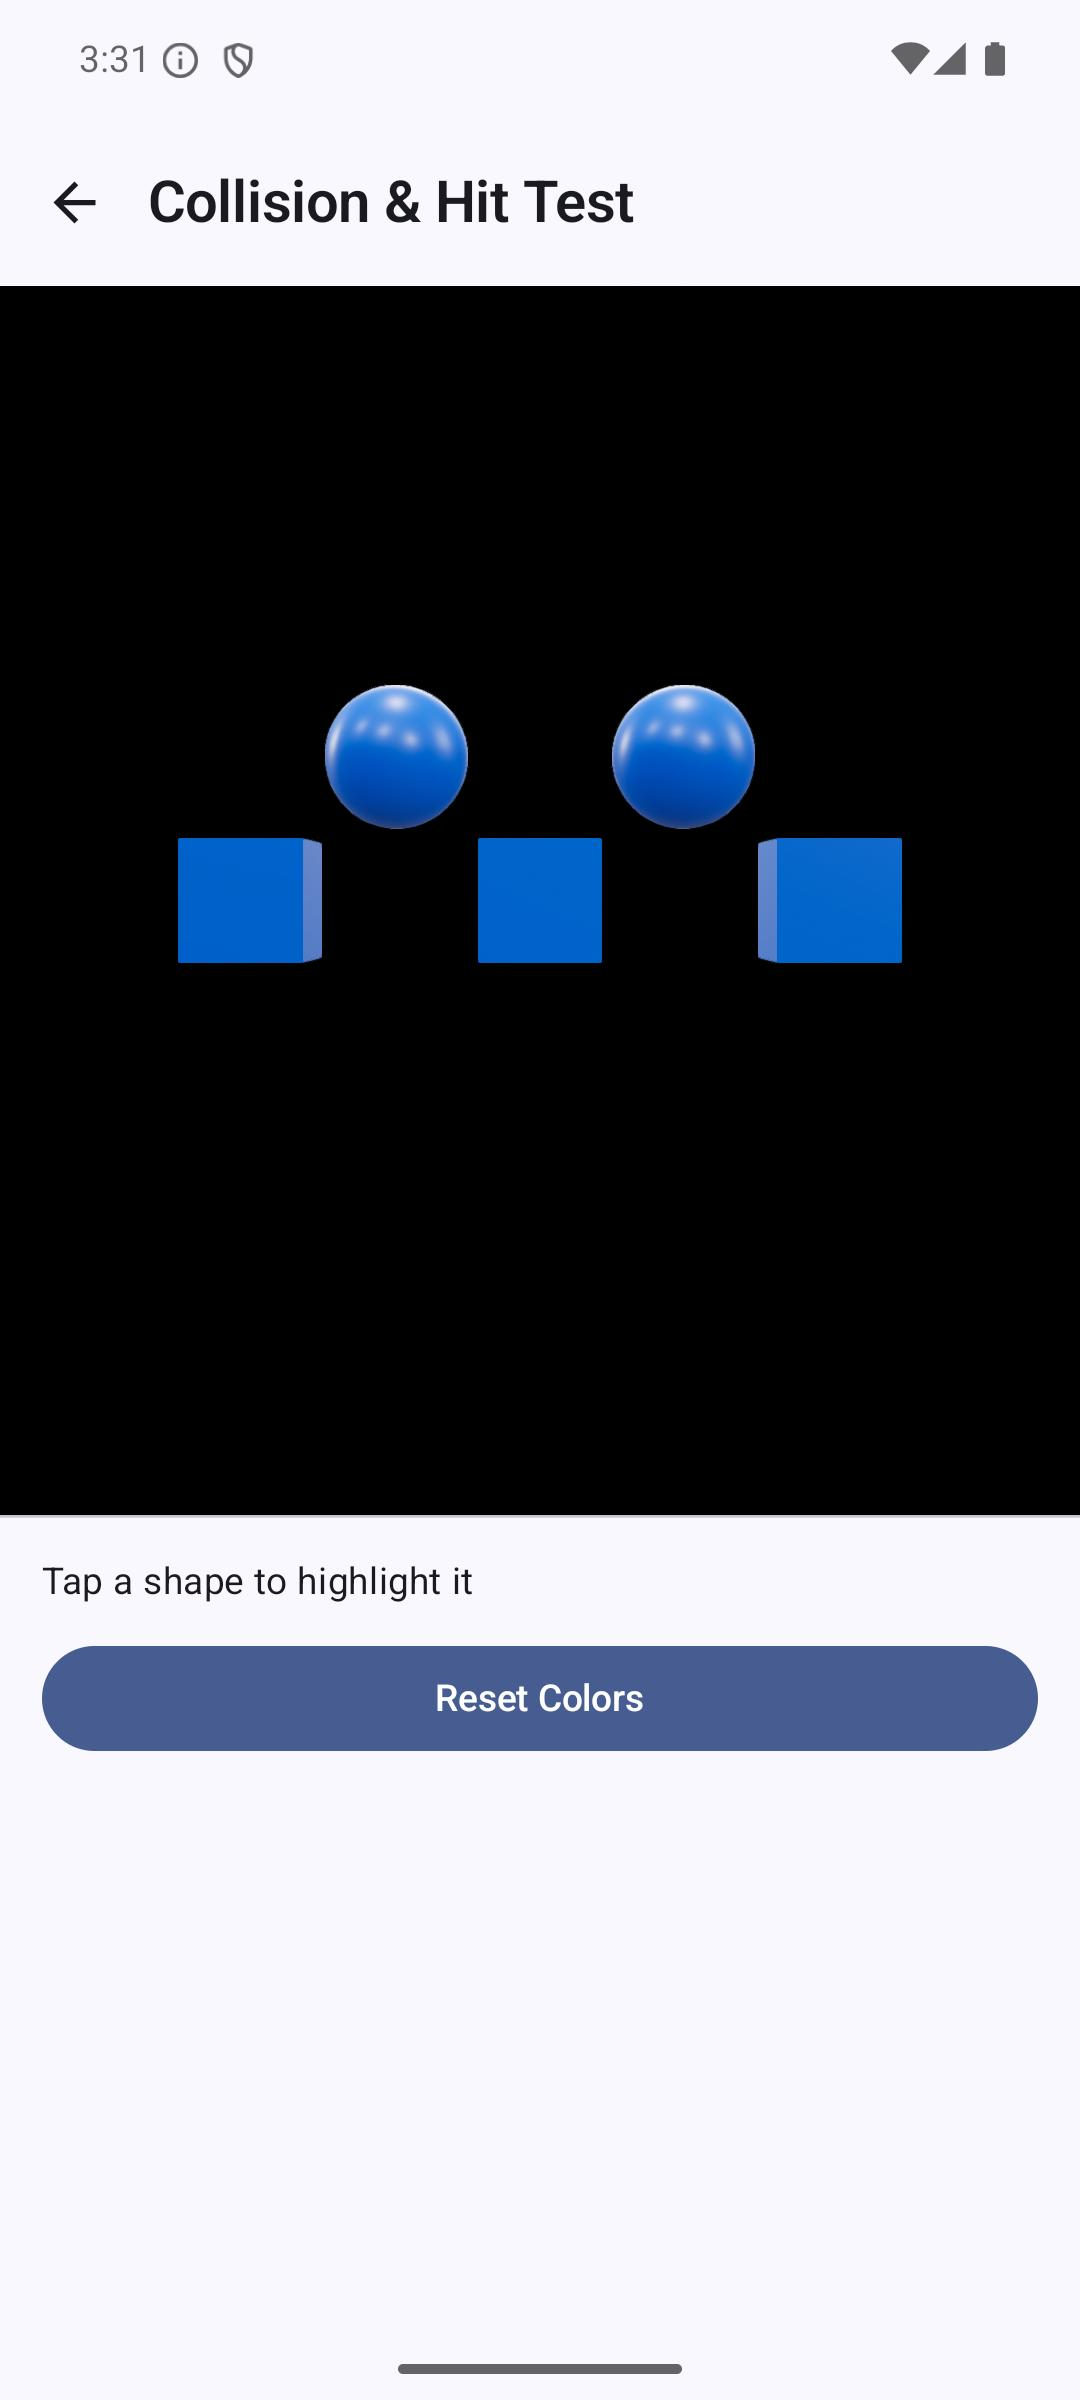
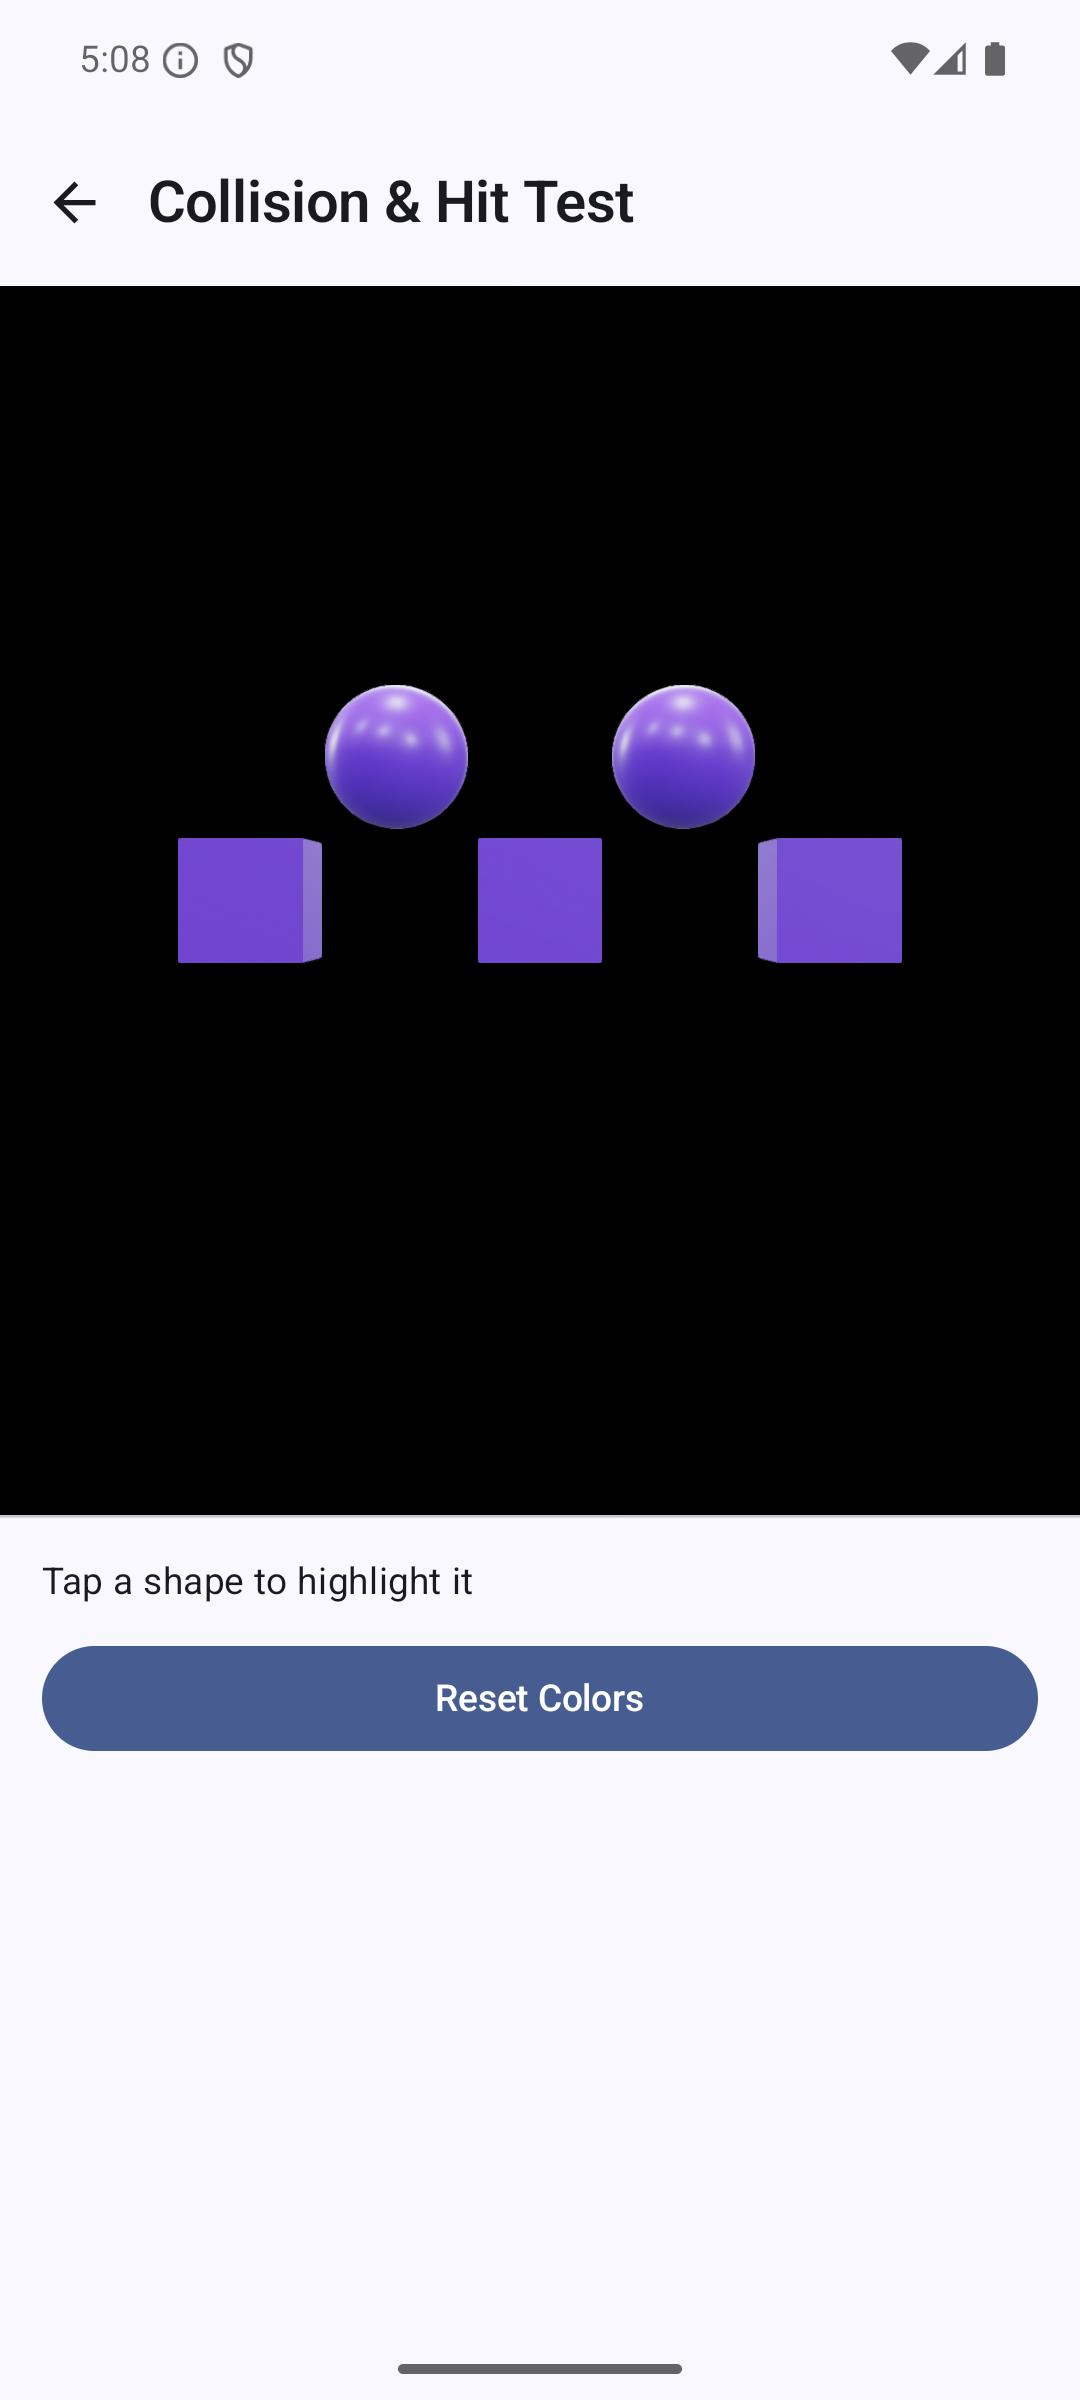
fix(sceneview): propagate MaterialInstance changes to SphereNode + CubeNode
## Library fix

Both `SphereNode` and `CubeNode` Compose composables accepted a
`materialInstance: MaterialInstance?` parameter that was forwarded to the
underlying `SphereNodeImpl` / `CubeNodeImpl` at construction time (via
`remember(engine) { …(materialInstance = materialInstance).apply(apply) }`)
and never re-applied on recomposition. Callers that swapped the instance
reactively — `CollisionDemo` toggling between `defaultMaterial` and
`highlightedMaterial` based on `highlightedIndices` — saw the Compose state
update but the rendered shape kept its original colour forever.

Added a `prev*Material` `remember { mutableStateOf(materialInstance) }` plus
a check inside the `SideEffect` that calls
`node.setMaterialInstanceAt(0, materialInstance)` whenever the parameter
differs from the previous one. `setMaterialInstanceAt` is the Filament
call that binds a MaterialInstance to an entity's renderable primitive — it
is cheap (no geometry rebuild) and safe to invoke on every change.

## CollisionDemo test — accurate hit-test coords

Remapped the tap coordinates to match the actual on-screen projection of the
5 shapes (Pixel_7a portrait, default camera at z=4, shapes at z=-2):

  - spheres (world y=+0.3) → display y ≈ 0.30 × h
  - cubes   (world y= 0 )  → display y ≈ 0.37 × h (viewport vertical centre)
  - x mapping: -0.6 → 0.25, -0.3 → 0.37, 0 → 0.50, 0.3 → 0.63, 0.6 → 0.75

Verified via the demo's own `onSingleTapUp` logging during debugging:
[…]

diff --git a/sceneview/src/main/java/io/github/sceneview/SceneScope.kt b/sceneview/src/main/java/io/github/sceneview/SceneScope.kt
@@ -447,11 +447,17 @@ open class SceneScope @RestrictTo(RestrictTo.Scope.LIBRARY_GROUP_PREFIX) constru
             ).apply(apply)
         }
         val prevCubeGeometry = remember { mutableStateOf(listOf<Any?>(size, center)) }
+        val prevCubeMaterial = remember { mutableStateOf(materialInstance) }
         SideEffect {
             val current = listOf<Any?>(size, center)
             if (current != prevCubeGeometry.value) {
                 node.updateGeometry(center = center, size = size)
                 prevCubeGeometry.value = current
+            }
+            // Propagate MaterialInstance reassignments — see SphereNode for rationale.
+            if (materialInstance != null && materialInstance != prevCubeMaterial.value) {
+                node.setMaterialInstanceAt(0, materialInstance)
+                prevCubeMaterial.value = materialInstance
             }
             node.position = position
             node.rotation = rotation
@@ -500,11 +506,21 @@ open class SceneScope @RestrictTo(RestrictTo.Scope.LIBRARY_GROUP_PREFIX) constru
             ).apply(apply)
         }
         val prevSphereGeometry = remember { mutableStateOf(listOf<Any?>(radius, center, stacks, slices)) }
+        val prevSphereMaterial = remember { mutableStateOf(materialInstance) }
         SideEffect {
             val current = listOf<Any?>(radius, center, stacks, slices)
             if (current != prevSphereGeometry.value) {
                 node.updateGeometry(radius = radius, center = center, stacks = stacks, slices = slices)
                 prevSphereGeometry.value = current
+            }
+            // Propagate MaterialInstance reassignments from the caller — without this,
+            // swapping `materialInstance = highlightMaterial` on recomposition leaves the
+            // node with its construction-time material forever. Filament's
+            // `setMaterialInstanceAt(primitiveIndex, newInstance)` is cheap (no geometry
+            // rebuild), so doing it unconditionally on change is fine.
+            if (materialInstance != null && materialInstance != prevSphereMaterial.value) {
+                node.setMaterialInstanceAt(0, materialInstance)
+                prevSphereMaterial.value = materialInstance
             }
             node.position = position
             node.rotation = rotation

diff --git a/samples/android-demo/src/androidTest/java/io/github/sceneview/demo/DemoInteractionTest.kt b/samples/android-demo/src/androidTest/java/io/github/sceneview/demo/DemoInteractionTest.kt
@@ -793,22 +793,19 @@ class DemoInteractionTest {
 
         val w = device.displayWidth
         val h = device.displayHeight
-        // Each shape sits at z=-2, so the camera at z≈3 renders them at roughly the
-        // vertical centre of the viewport. The screen-space layout is:
-        //
-        //   row 1 (spheres, y≈+0.3 world): around y ≈ 38% of screen
-        //   row 2 (cubes,   y≈+0.0 world): around y ≈ 44% of screen
-        //
-        // We tap once per row at three x-positions so at least 4 of the 5 shapes get hit,
-        // which produces a different screenshot byte-pattern than the default (byte-size
-        // diff was ~30 B at 30 % Y — the clicks were landing above every shape).
-        val rowSpheresY = (h * 0.38).toInt()
-        val rowCubesY   = (h * 0.44).toInt()
-        device.click((w * 0.25).toInt(), rowSpheresY); Thread.sleep(300)
-        device.click((w * 0.65).toInt(), rowSpheresY); Thread.sleep(300)
-        device.click((w * 0.20).toInt(), rowCubesY);   Thread.sleep(300)
-        device.click((w * 0.50).toInt(), rowCubesY);   Thread.sleep(300)
-        device.click((w * 0.80).toInt(), rowCubesY);   Thread.sleep(400)
+        // Two-row mapping confirmed by hit-test log on Pixel_7a portrait (default
+        // camera at z=4, shapes at z=-2):
+        //   spheres (world y=+0.3) → display abs y ≈ 720  ≈ 0.30 × h
+        //   cubes   (world y= 0 )  → display abs y ≈ 886  ≈ 0.37 × h (viewport centre)
+        // X mapping from world:
+        //   x=-0.6→0.25 | x=-0.3→0.37 | x=0→0.50 | x=0.3→0.63 | x=0.6→0.75
+        val sphereY = (h * 0.30).toInt()
+        val cubeY   = (h * 0.37).toInt()
+        device.click((w * 0.25).toInt(), cubeY);   Thread.sleep(300)  // cube   0
+        device.click((w * 0.37).toInt(), sphereY); Thread.sleep(300)  // sphere 1
+        device.click((w * 0.50).toInt(), cubeY);   Thread.sleep(300)  // cube   2
+        device.click((w * 0.63).toInt(), sphereY); Thread.sleep(300)  // sphere 3
+        device.click((w * 0.75).toInt(), cubeY);   Thread.sleep(400)  // cube   4
         screenshot("86_collision_after_taps")
 
         tap("Reset Colors")
